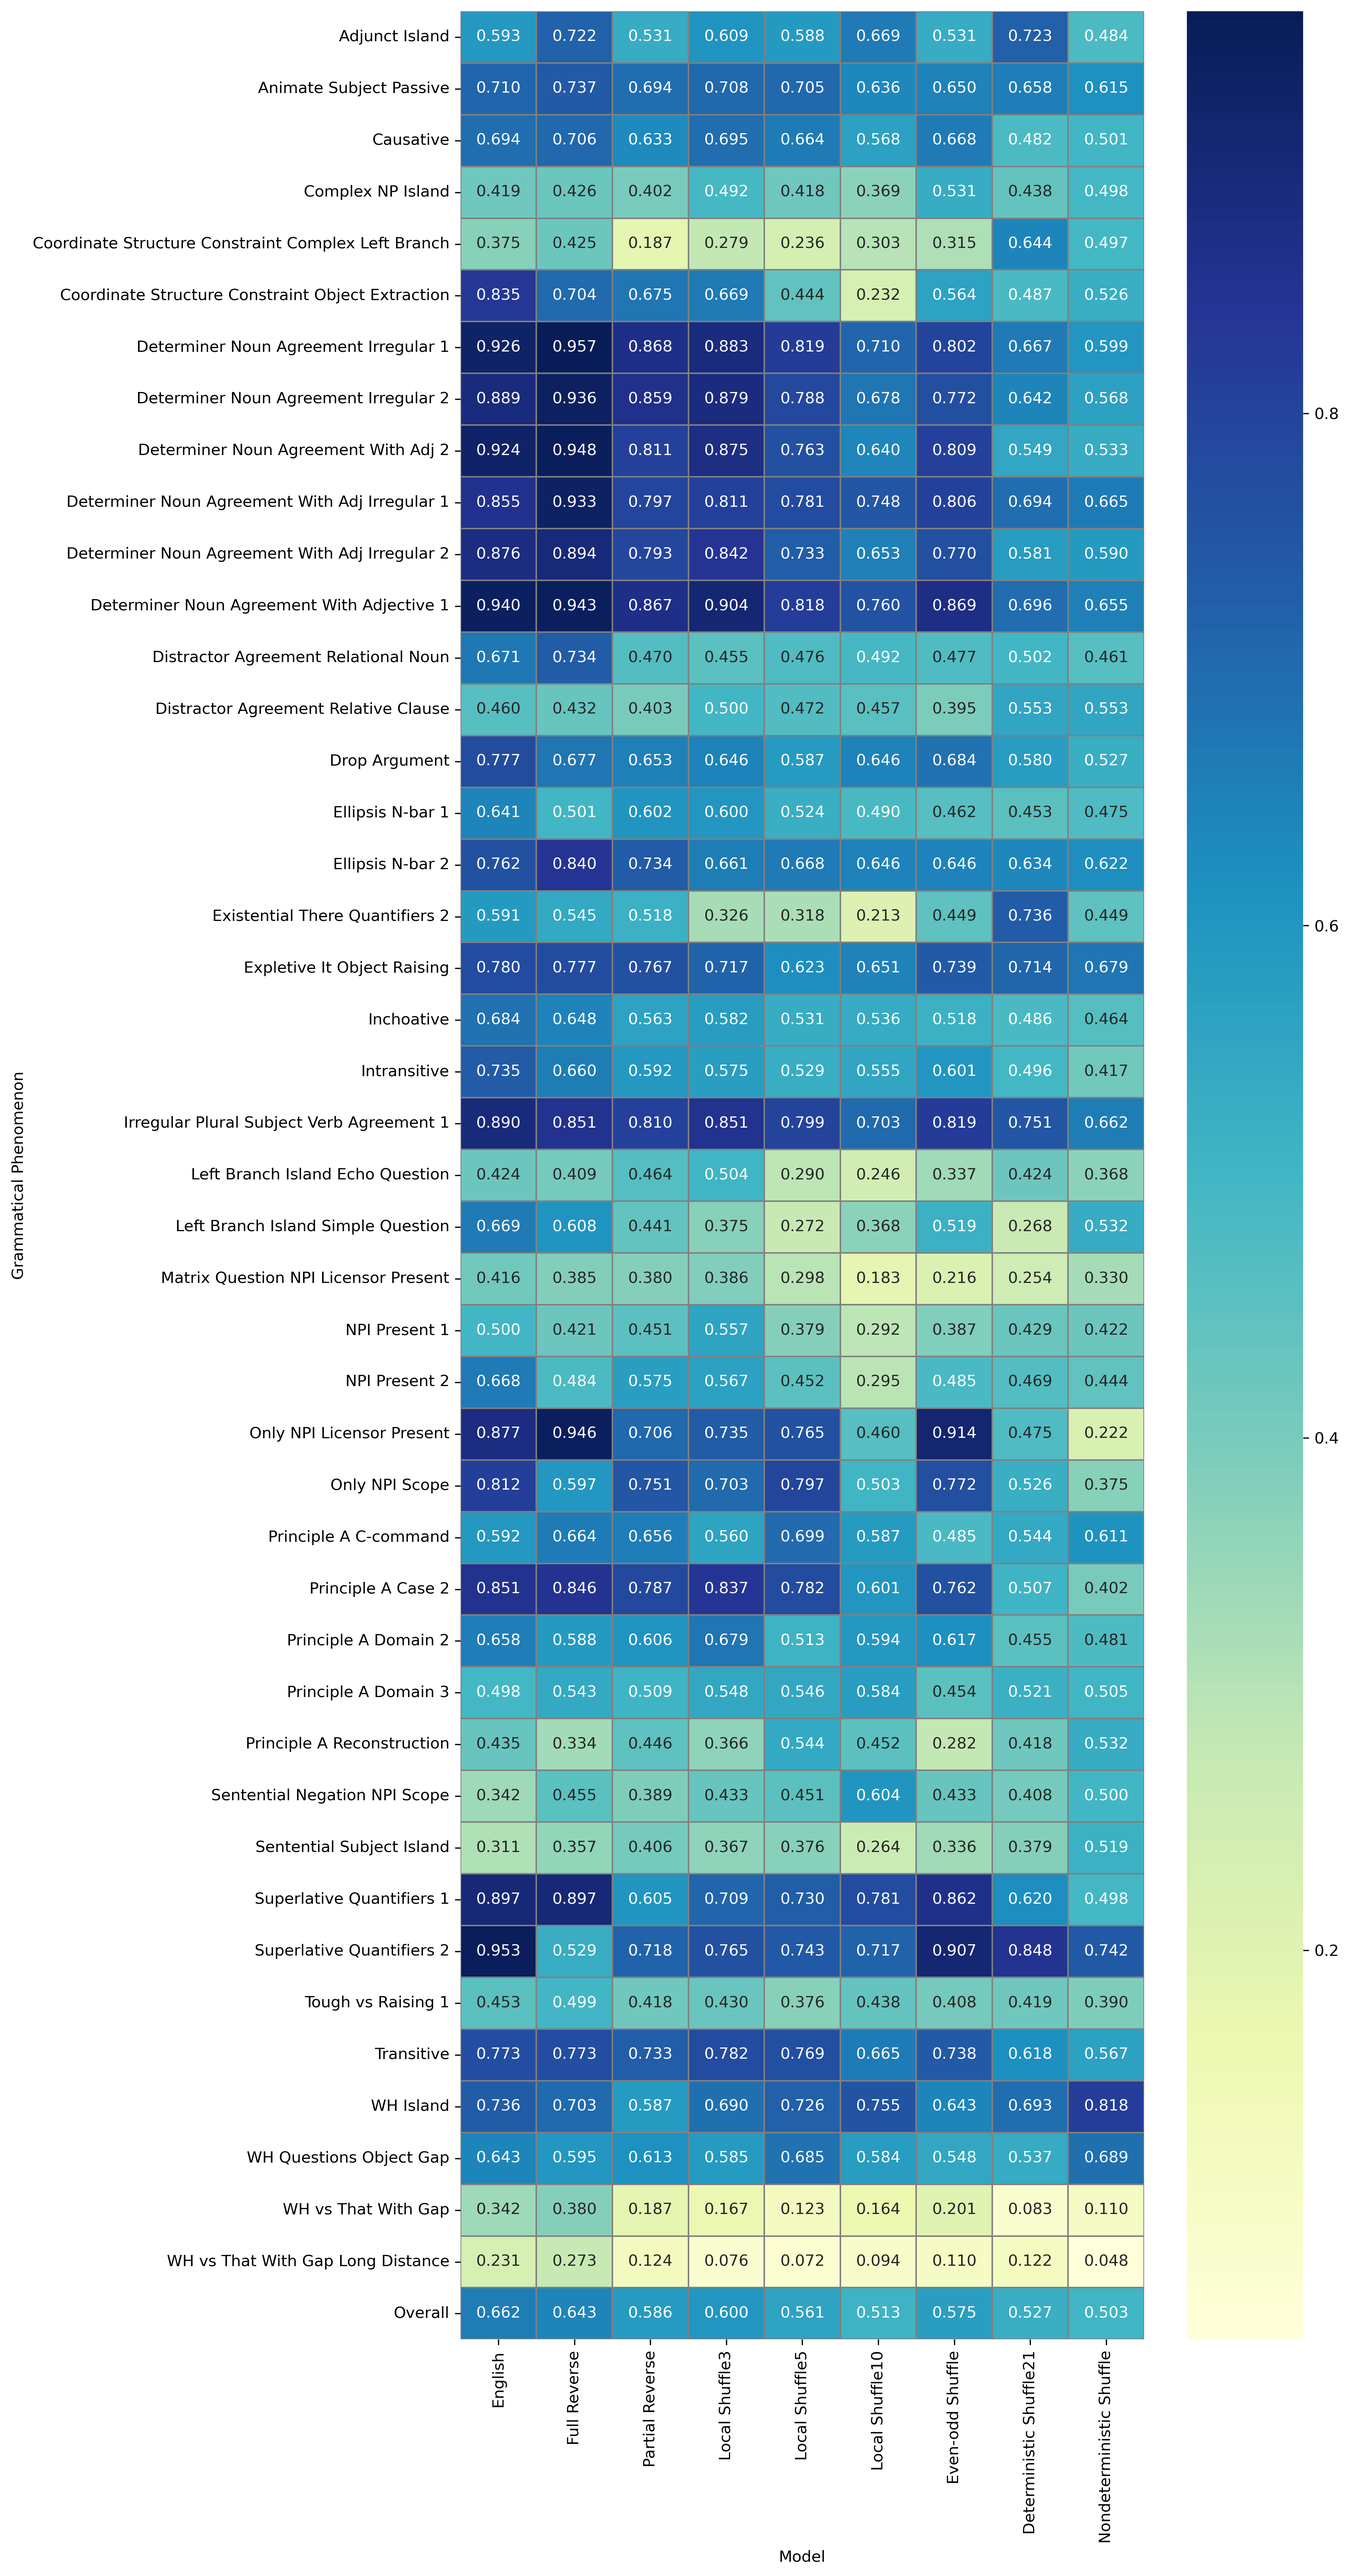
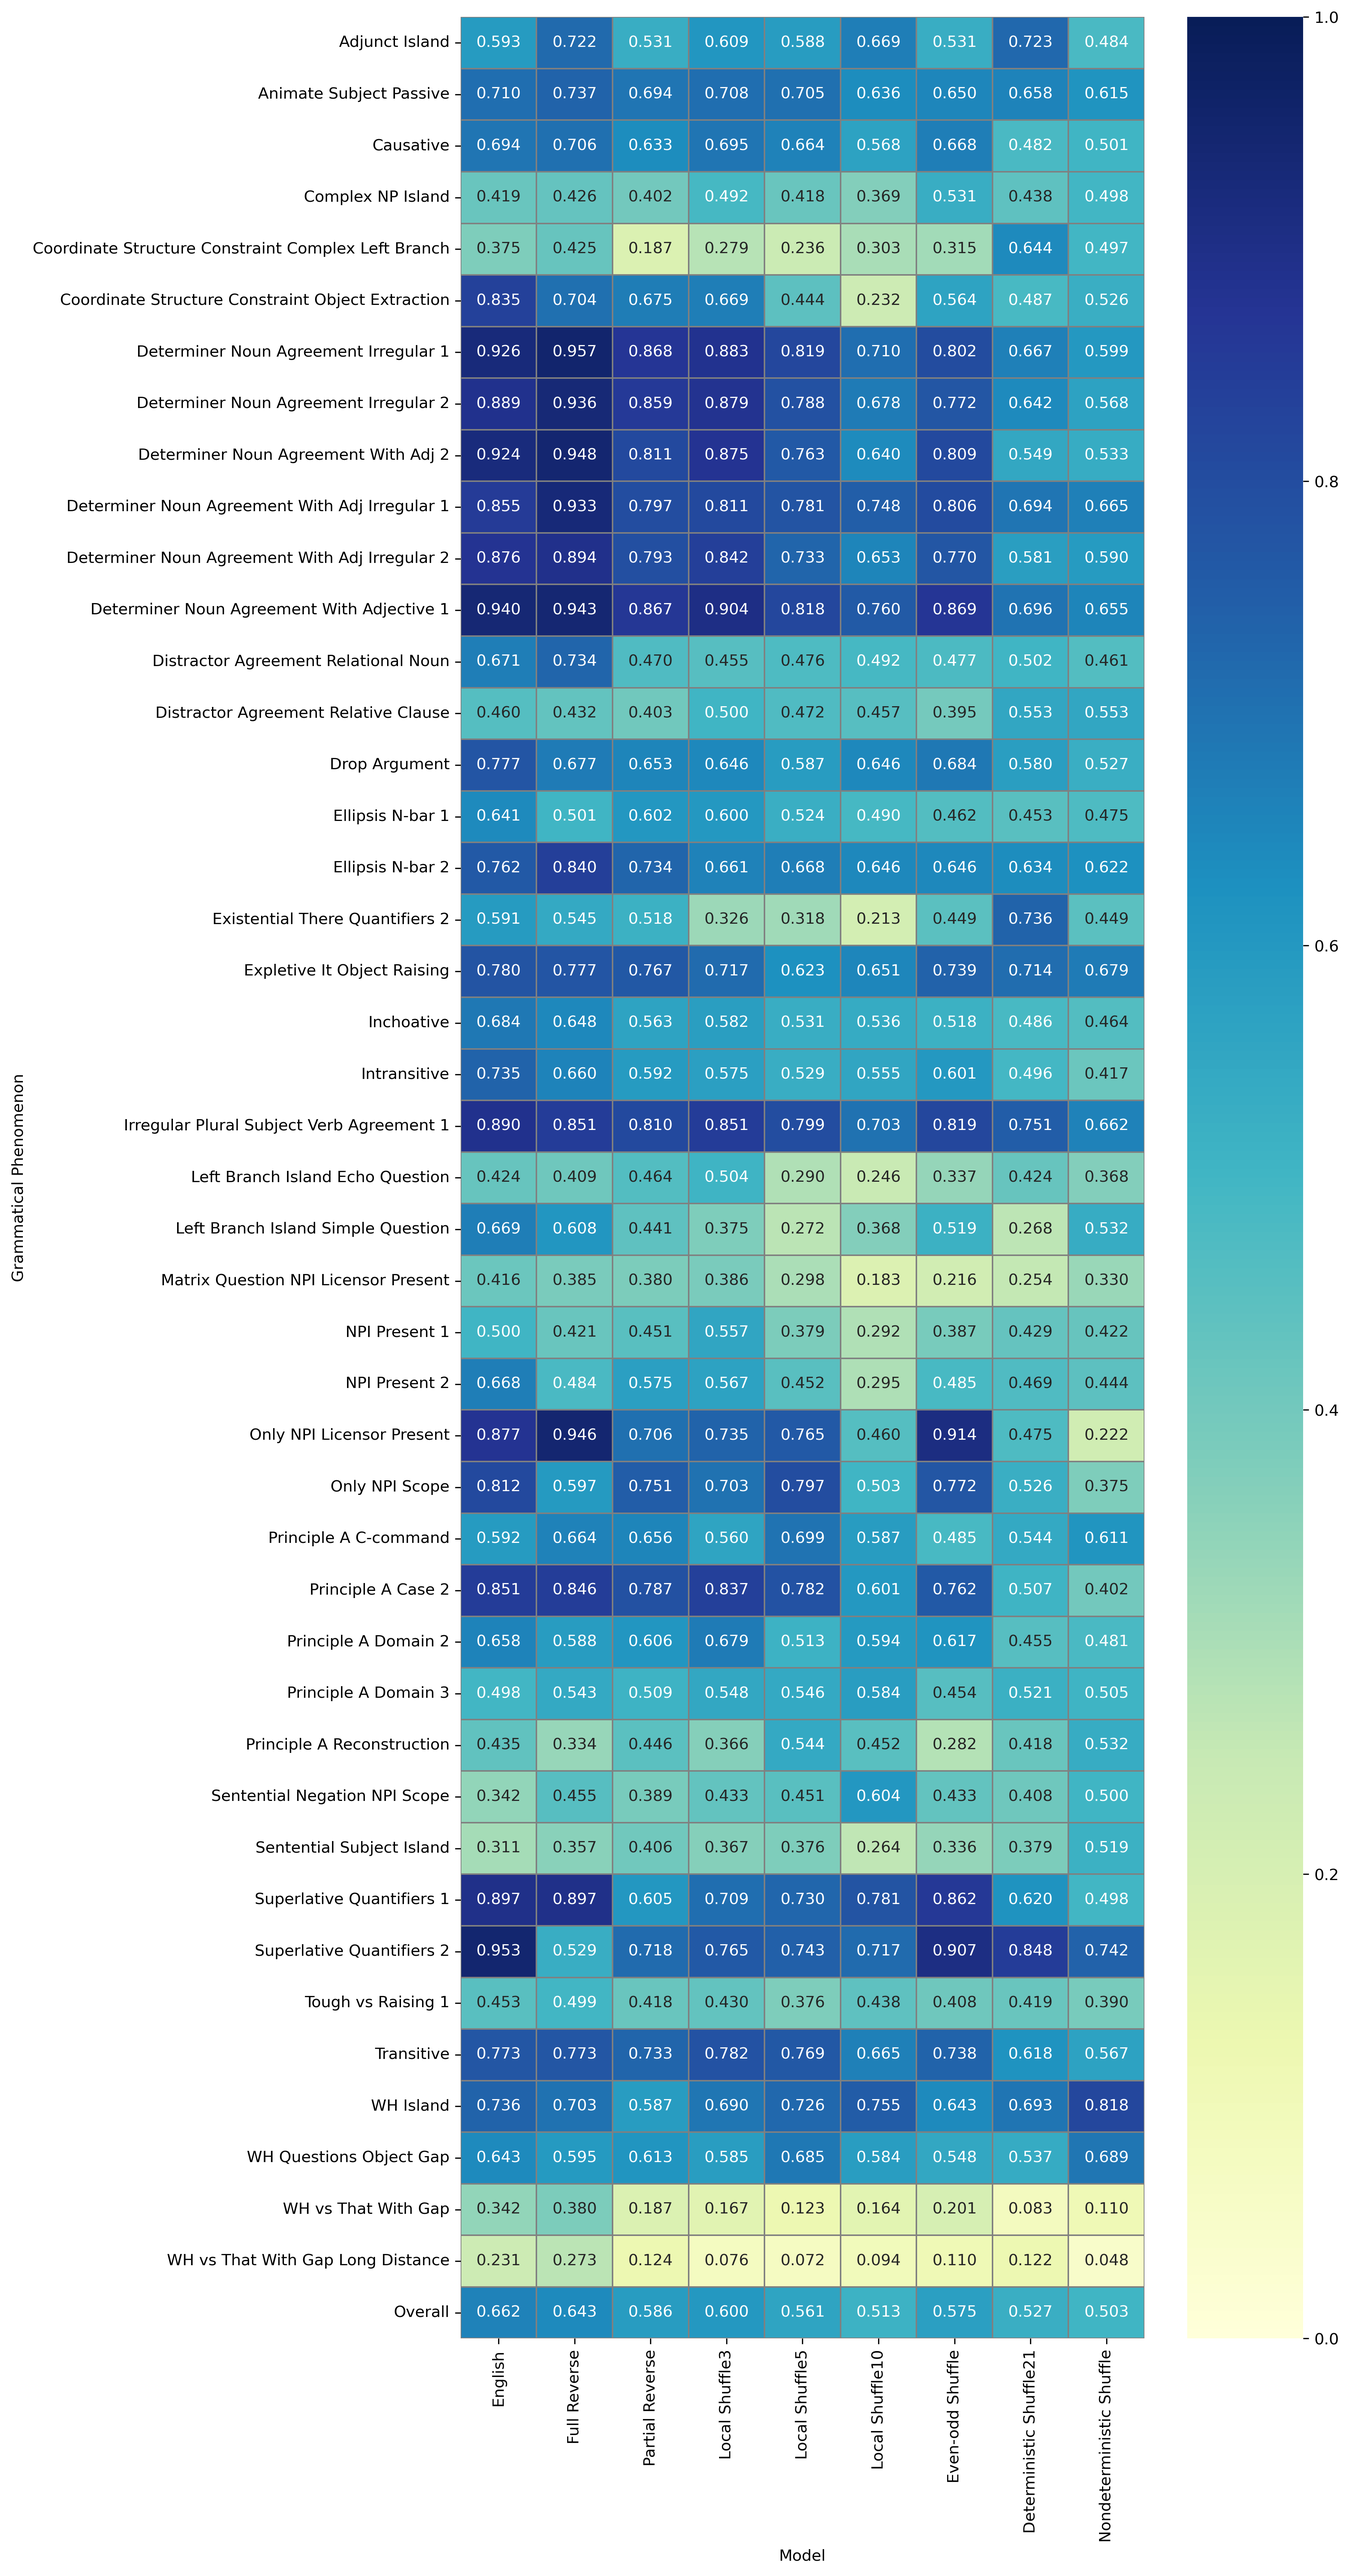
Keep heatmap color scale consistent

diff --git a/analysis/performance_statistics.py b/analysis/performance_statistics.py
@@ -14,6 +14,10 @@ GRAMMATICAL_PHENOMENA_TABLE_CSV_PATH = "analysis/BLiMP/grammatical_phenomena_tab
 DEP_STATS_CSV_PATH = "analysis/output/dep_stats.csv"
 OUTPUT_DIR = "analysis/output"
 
+# Heatmap color scale bounds for consistent visualization across plots
+HEATMAP_VMIN = 0.0
+HEATMAP_VMAX = 1.0
+
 # Edit this list to change which phenomena are included in the table
 # Complete list of all 69 phenomena from the v3 dataset
 PHENOMENA_LIST = [
@@ -487,7 +491,7 @@ def plot_model_group_performance_table(
     df_table.insert(0, 'Overall', df_table.mean(axis=1, skipna=True))
     # Plot heatmap
     plt.figure(figsize=(max(2 + len(columns)+1, 8), max(1 + len(MODEL_ORDER), 8)))
-    ax = sns.heatmap(df_table, annot=True, fmt=".3f", cmap="YlGnBu", cbar=True, linewidths=0.5, linecolor='gray', annot_kws={"size": 10})
+    ax = sns.heatmap(df_table, annot=True, fmt=".3f", cmap="YlGnBu", cbar=True, linewidths=0.5, linecolor='gray', annot_kws={"size": 10}, vmin=HEATMAP_VMIN, vmax=HEATMAP_VMAX)
     ax.set_ylabel("Model")
     # Move x-ticks to top
     ax.xaxis.set_ticks_position('top')
@@ -542,7 +546,7 @@ def save_performance_table_image(
     # Plot as heatmap
     plt.figure(figsize=(max(2 + len(all_models) * 1.1, 8), max(1 + len(phenomena) * 0.5, 8)))
     ax = sns.heatmap(display_table, annot=True, fmt=".3f", cmap="YlGnBu", cbar=True, linewidths=0.5, linecolor='gray',
-                     annot_kws={"size": 10})
+                     annot_kws={"size": 10}, vmin=HEATMAP_VMIN, vmax=HEATMAP_VMAX)
     ax.set_xlabel("Model")
     ax.set_ylabel("Grammatical Phenomenon")
     # ax.set_title("Model Accuracy by Grammatical Phenomenon")
